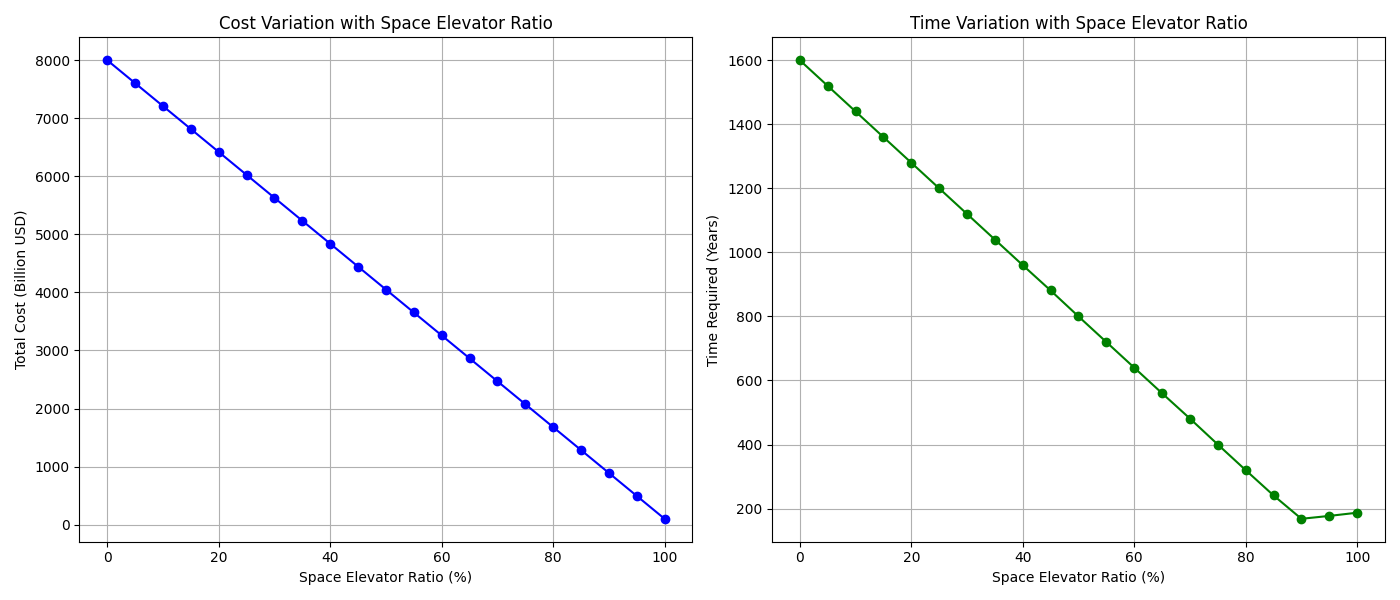
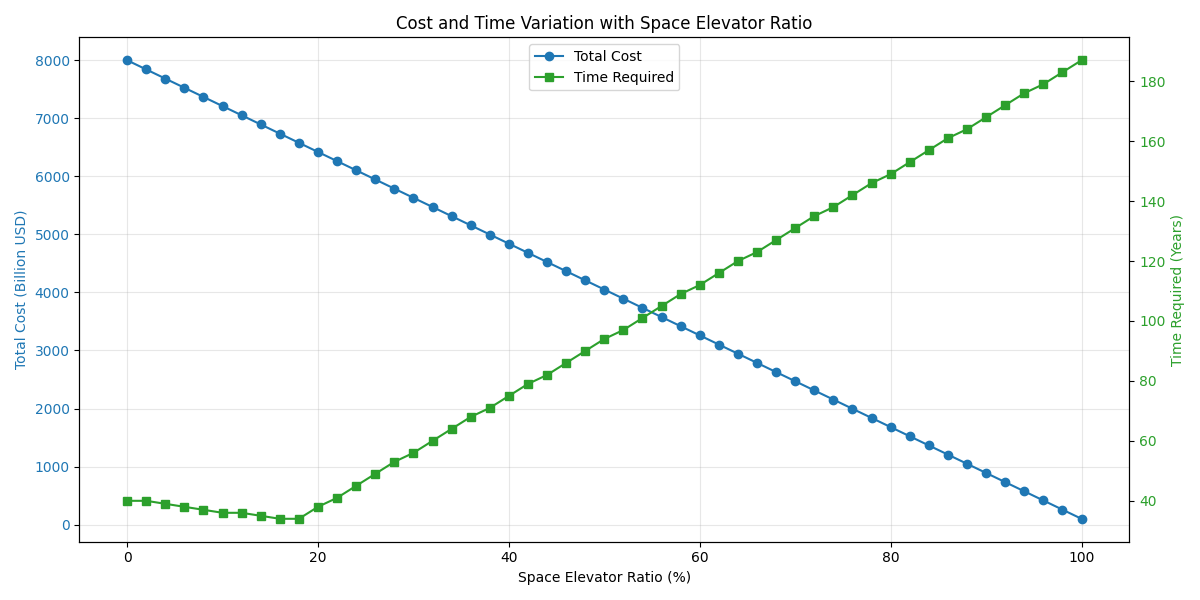
style: refine fig of ratio_analysis

diff --git a/src/plotter.py b/src/plotter.py
@@ -183,21 +183,30 @@ def plot_ratio_analysis():
     # Convert cost to billions of dollars
     costs_billion = [c / 1e9 for c in costs]
     
-    fig, (ax1, ax2) = plt.subplots(1, 2, figsize=(14, 6))
+    fig, ax1 = plt.subplots(figsize=(12, 6))
     
-    # Cost variation with ratio
-    ax1.plot(ratio_percent, costs_billion, 'o-', color='blue')
-    ax1.set_title('Cost Variation with Space Elevator Ratio')
+    # Cost variation with ratio (left y-axis)
+    color = 'tab:blue'
     ax1.set_xlabel('Space Elevator Ratio (%)')
-    ax1.set_ylabel('Total Cost (Billion USD)')
-    ax1.grid(True)
+    ax1.set_ylabel('Total Cost (Billion USD)', color=color)
+    ax1.plot(ratio_percent, costs_billion, 'o-', color=color, label='Total Cost')
+    ax1.tick_params(axis='y', labelcolor=color)
+    ax1.grid(True, alpha=0.3)
     
-    # Time variation with ratio
-    ax2.plot(ratio_percent, years, 'o-', color='green')
-    ax2.set_title('Time Variation with Space Elevator Ratio')
-    ax2.set_xlabel('Space Elevator Ratio (%)')
-    ax2.set_ylabel('Time Required (Years)')
-    ax2.grid(True)
+    # Time variation with ratio (right y-axis)
+    ax2 = ax1.twinx()
+    color = 'tab:green'
+    ax2.set_ylabel('Time Required (Years)', color=color)
+    ax2.plot(ratio_percent, years, 's-', color=color, label='Time Required')
+    ax2.tick_params(axis='y', labelcolor=color)
+    
+    # Title and legend
+    plt.title('Cost and Time Variation with Space Elevator Ratio')
+    
+    # Combine legends
+    lines1, labels1 = ax1.get_legend_handles_labels()
+    lines2, labels2 = ax2.get_legend_handles_labels()
+    ax1.legend(lines1 + lines2, labels1 + labels2, loc='upper center')
     
     plt.tight_layout()
     results_dir = get_results_dir()

diff --git a/src/model.py b/src/model.py
@@ -18,7 +18,7 @@ ROCKET_PAYLOAD_MAX = 150  # 火箭最大有效载荷（吨）
 ROCKET_PAYLOAD_AVG = (ROCKET_PAYLOAD_MIN + ROCKET_PAYLOAD_MAX) / 2  # 平均有效载荷
 ROCKET_COST_PER_LAUNCH = 10_000_000  # 每次发射成本（美元）
 ROCKET_RELIABILITY = 0.95  # 可靠性（无故障概率）
-ROCKET_LAUNCHES_PER_YEAR_PER_SITE = 50  # 每个发射场每年发射次数
+ROCKET_LAUNCHES_PER_YEAR_PER_SITE = 2000  # 每个发射场每年发射次数
 
 # 计算每个场景的成本和时间线
 def calculate_scenario_1():
@@ -57,8 +57,8 @@ def calculate_scenario_3():
     best_scenario = None
     min_total_cost = float('inf')
     
-    # 遍历不同的太空电梯比例（从0%到100%，步长5%）
-    for elevator_ratio in range(0, 101, 5):
+    # 遍历不同的太空电梯比例（从0%到100%，步长2%）
+    for elevator_ratio in range(0, 101, 2):
         elevator_ratio = elevator_ratio / 100
         rocket_ratio = 1 - elevator_ratio
         
@@ -202,8 +202,8 @@ def save_results_to_file():
     ratio_file = os.path.join(results_dir, 'ratio_analysis.txt')
     with open(ratio_file, 'w') as f:
         f.write("=== 组合场景比例分析 ===\n")
-        # 遍历不同的太空电梯比例（从0%到100%，步长5%）
-        for elevator_ratio in range(0, 101, 5):
+        # 遍历不同的太空电梯比例（从0%到100%，步长2%）
+        for elevator_ratio in range(0, 101, 2):
             elevator_ratio = elevator_ratio / 100
             rocket_ratio = 1 - elevator_ratio
             
